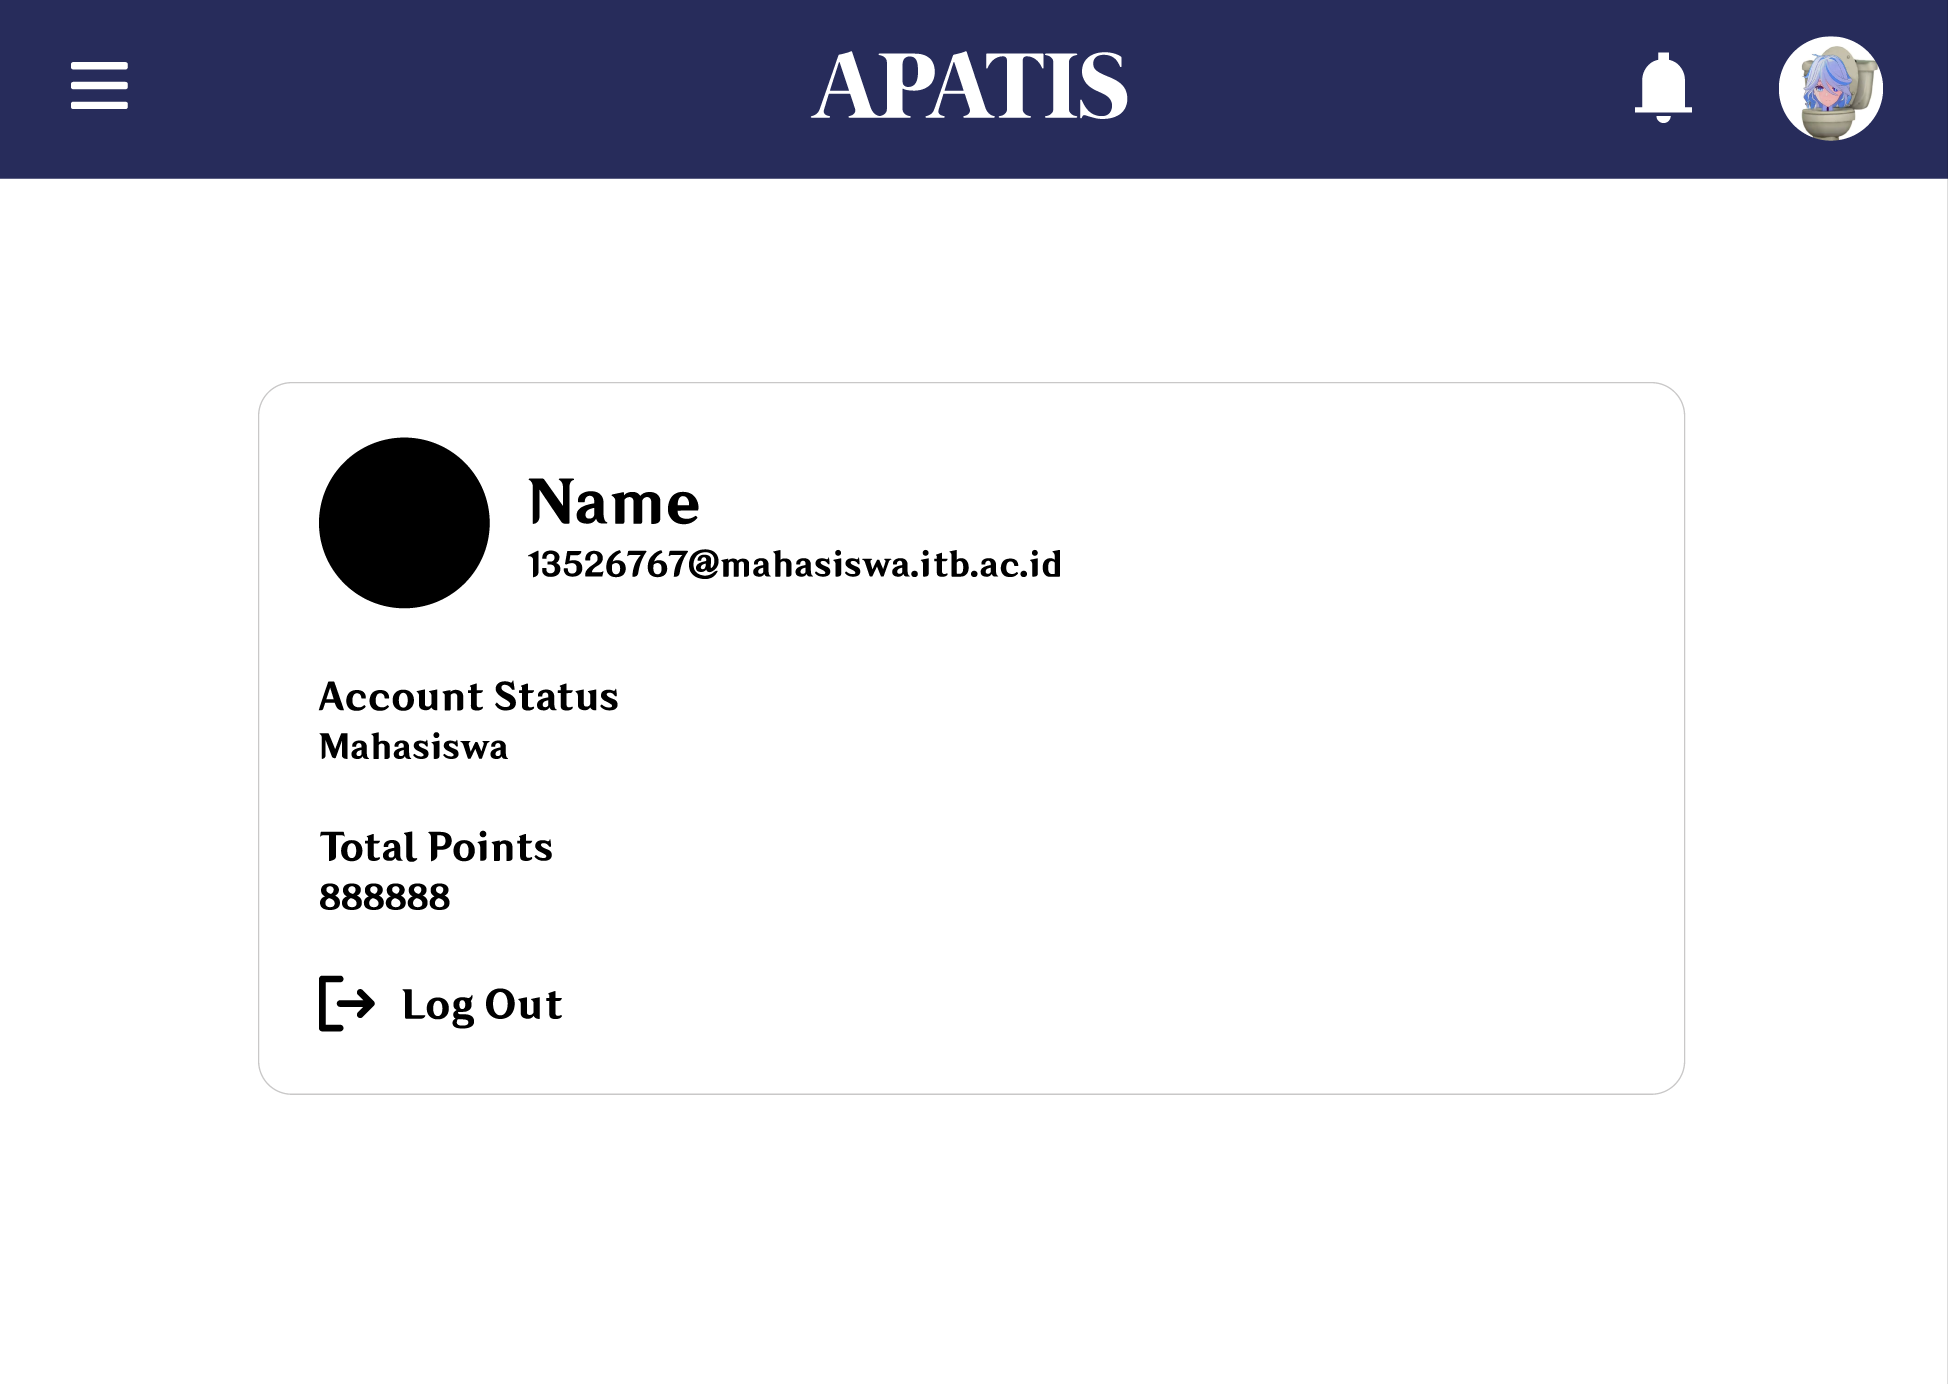
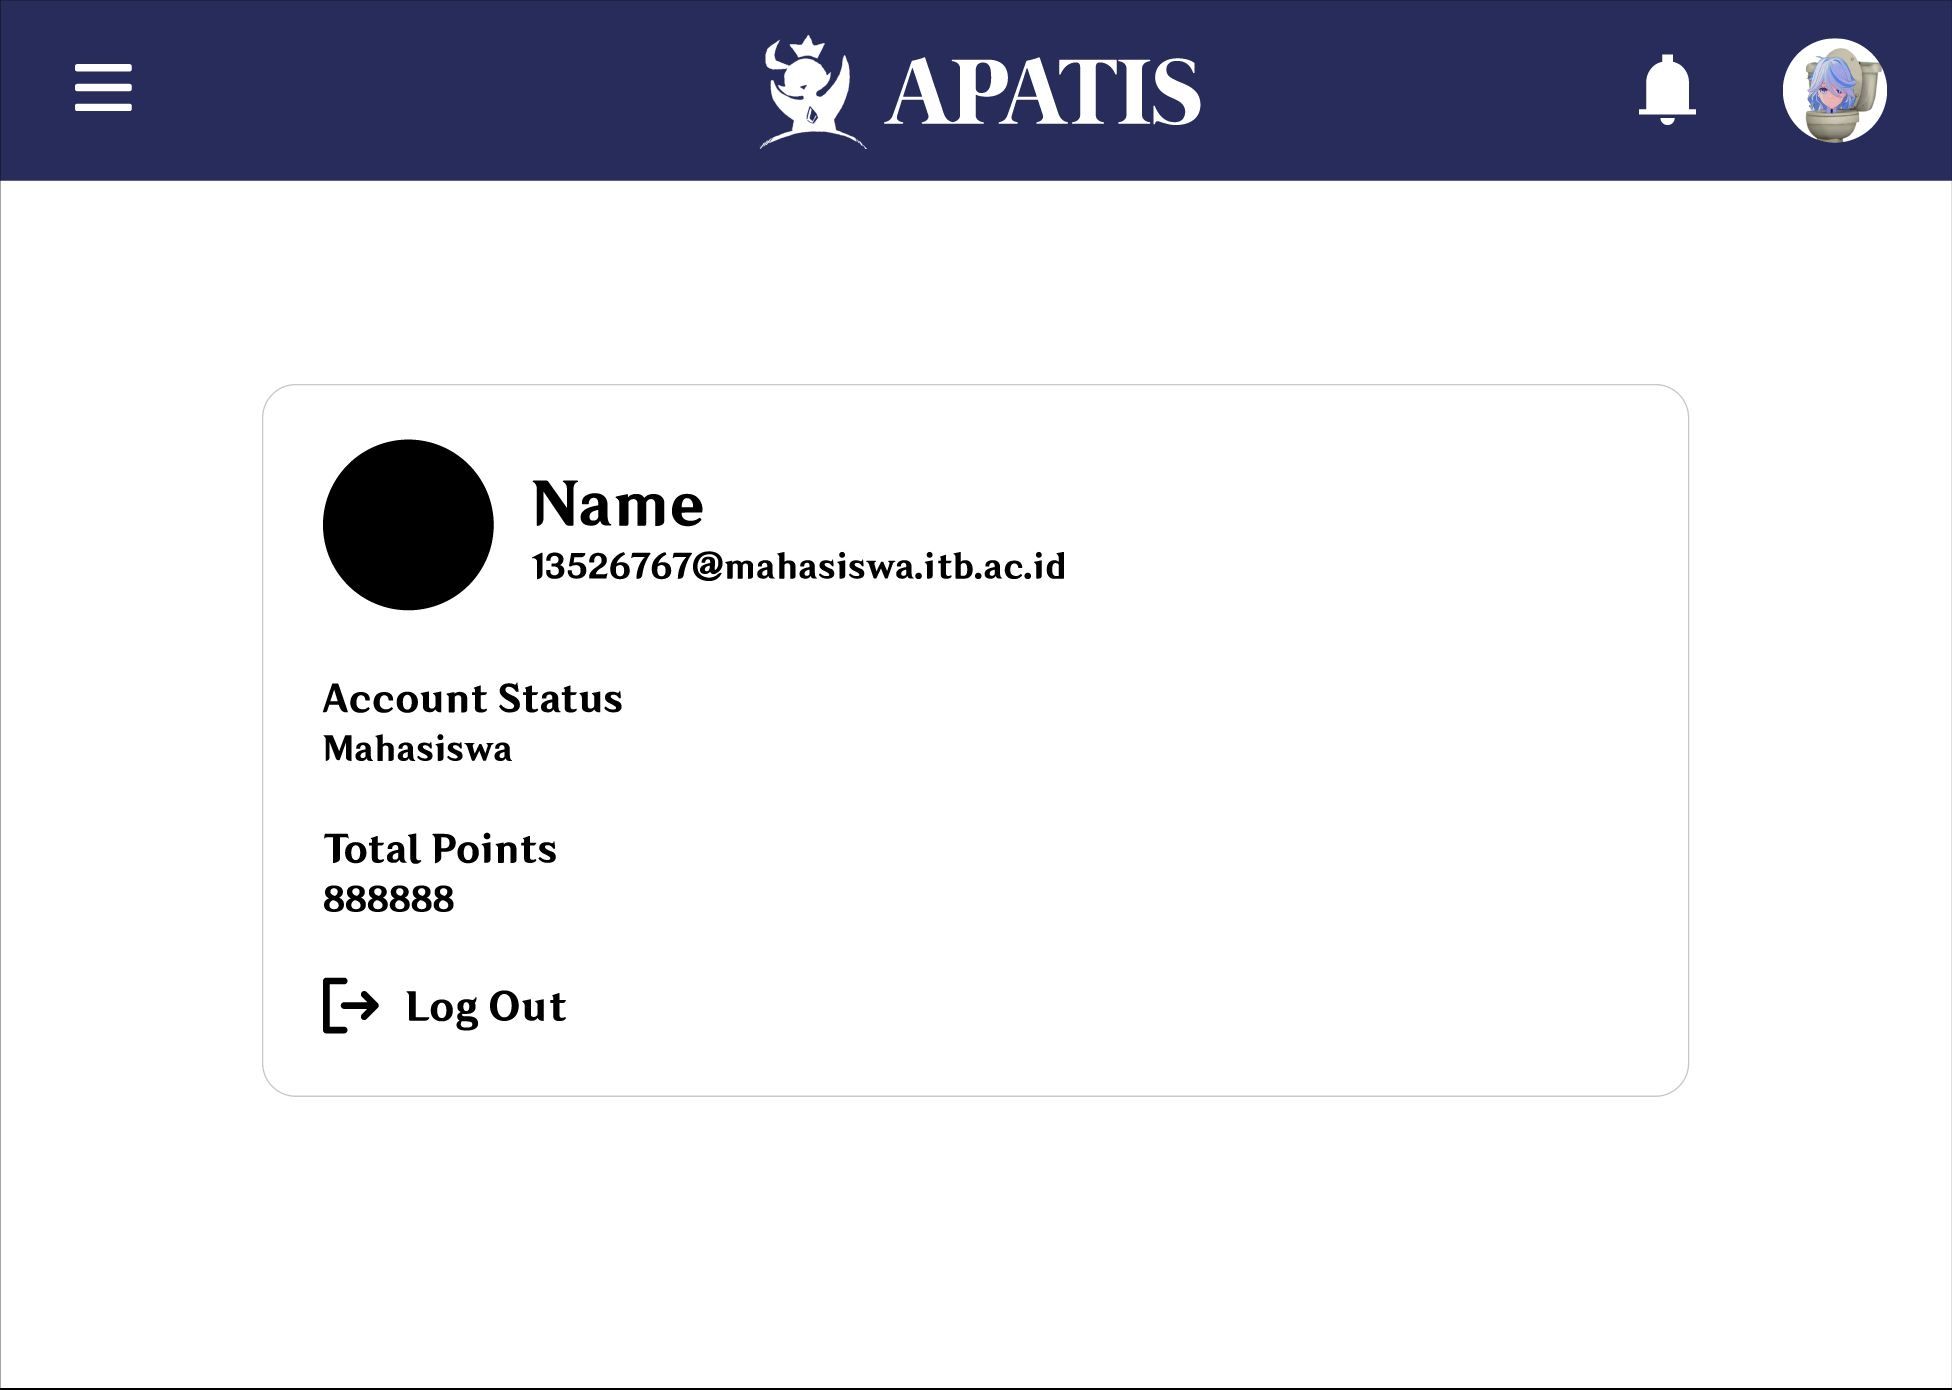
docs(DPPL2): Perbaikan foto

diff --git a/docs/M8/K01_G05_DPPL2.md b/docs/M8/K01_G05_DPPL2.md
@@ -8,7 +8,7 @@ DESKRIPSI PERANCANGAN PERANGKAT LUNAK (DPPL)
 <br>
 
 ## *APATIS: Aplikasi Pelaporan Air dan Sanitasi*
-### *[Logo Perangkat Lunak]*
+### <img alt="Logo APATIS" src="./assets/logo.png" width="50%">
 
 ### Untuk: *Made Branenda Jordhy*
 
